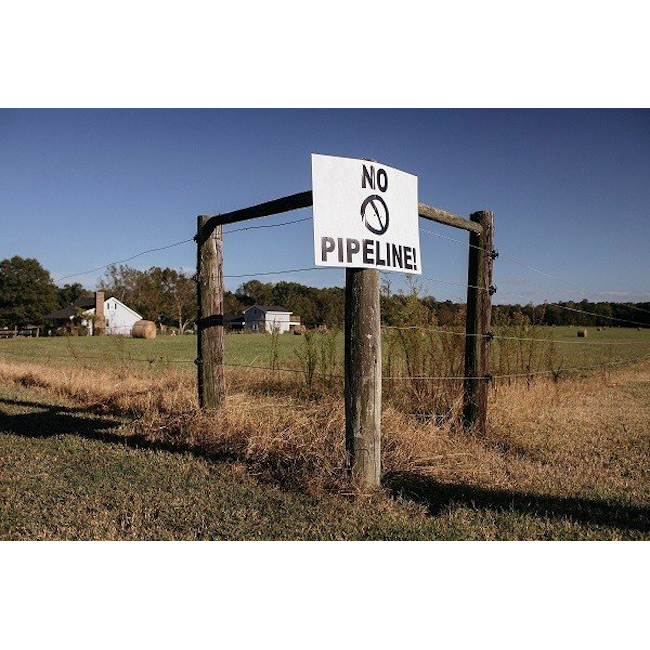
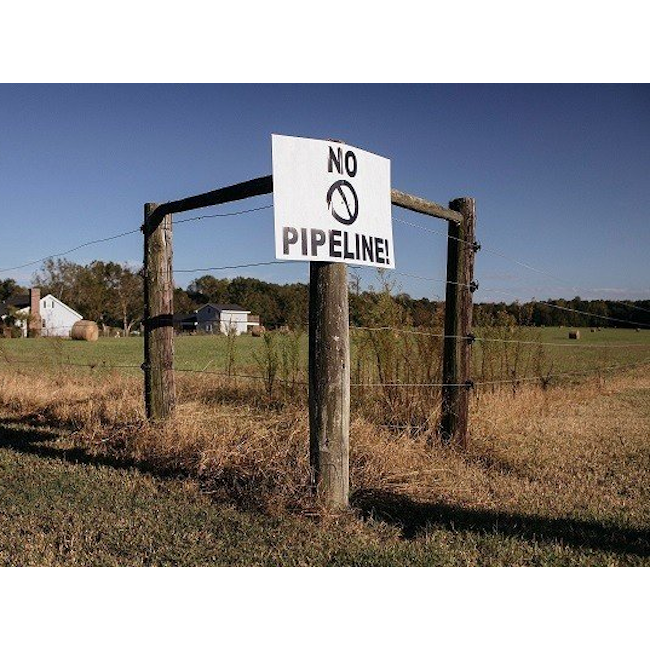
Styling

diff --git a/app/client/src/components/viewer/ol/Map.vue b/app/client/src/components/viewer/ol/Map.vue
@@ -1106,7 +1106,7 @@ div.ol-control button {
   font-family: 'Helvetica Neue', Helvetica, Arial, sans-serif;
   font-style: normal;
   position: relative;
-  background-color: rgba(0, 0, 0, 0.9);
+  background-color: rgba(128, 128, 128, 0.9);
   border-radius: 4px;
   color: white;
   padding: 2px 8px;
